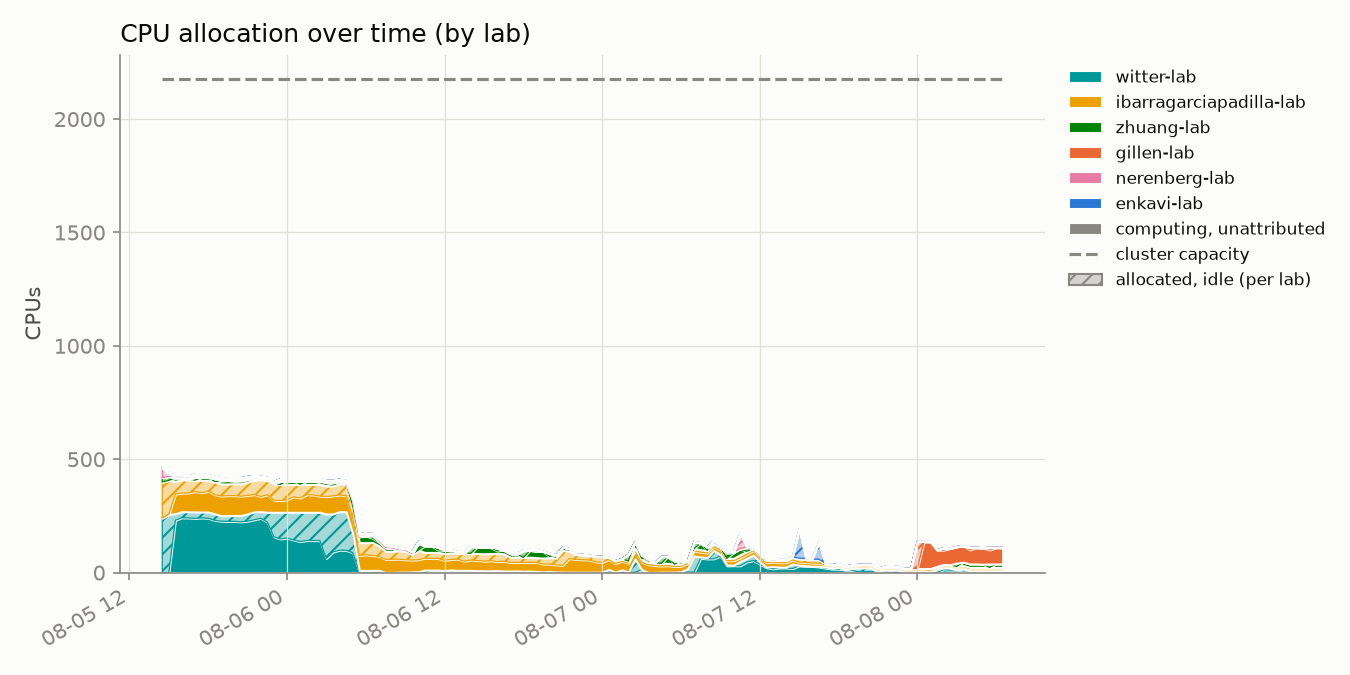
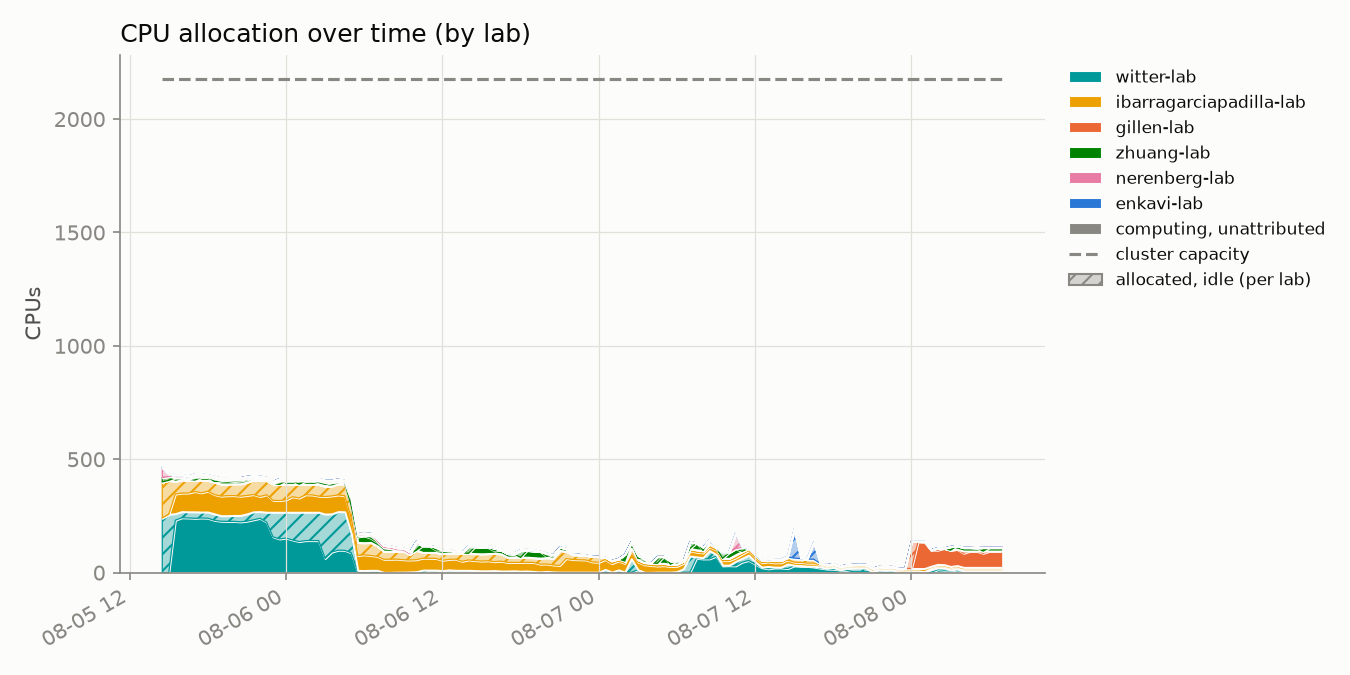
update 2026-08-08T07:00:01-07:00

diff --git a/README.md b/README.md
@@ -2,8 +2,8 @@
 
 Automated GPU/CPU/queue utilization tracker for `hopper.cluster`, updated every 30 minutes by cron. Usernames are anonymized to a stable per-account pseudonym; lab names are real.
 
-Last updated: 2026-08-08T06:30:13-07:00
-Samples: 129 queue snapshots, 129 GPU snapshots
+Last updated: 2026-08-08T07:00:13-07:00
+Samples: 130 queue snapshots, 130 GPU snapshots
 
 ## Resources
 
@@ -17,24 +17,24 @@ Samples: 129 queue snapshots, 129 GPU snapshots
 ## Headline
 
 - **45.6%** of the cluster's 60 GPUs allocated, averaged across all samples
-- **47.0%** average `nvidia-smi` utilization *when* a GPU is allocated to a job
-- **87.8%** average cgroup CPU utilization *when* a CPU is allocated to a job
+- **46.9%** average `nvidia-smi` utilization *when* a GPU is allocated to a job
+- **87.9%** average cgroup CPU utilization *when* a CPU is allocated to a job
 
 ## Per lab / per user
 
 <table>
 <tr><th>Lab</th><th>User</th><th align='right'>GPU-hours allocated</th><th align='right'>CPU-hours allocated</th><th align='right'>GPU utilization</th></tr>
-<tr style='background-color:#d8ecd8'><td>zhuang-lab</td><td>user-0db9ced0</td><td align='right'>781.5</td><td align='right'>781.5</td><td align='right'>46%</td></tr>
+<tr style='background-color:#d8ecd8'><td>zhuang-lab</td><td>user-0db9ced0</td><td align='right'>789.0</td><td align='right'>789.0</td><td align='right'>46%</td></tr>
 <tr style='background-color:#d8efef'><td>witter-lab</td><td>user-d58f5a15</td><td align='right'>467.5</td><td align='right'>3740.0</td><td align='right'>9%</td></tr>
-<tr style='background-color:#d8efef'><td>witter-lab</td><td>user-554c620c</td><td align='right'>456.0</td><td align='right'>973.5</td><td align='right'>66%</td></tr>
+<tr style='background-color:#d8efef'><td>witter-lab</td><td>user-554c620c</td><td align='right'>460.0</td><td align='right'>977.5</td><td align='right'>67%</td></tr>
 <tr style='background-color:#fbebf1'><td>nerenberg-lab</td><td>user-6bb5f332</td><td align='right'>40.0</td><td align='right'>200.0</td><td align='right'>71%</td></tr>
-<tr style='background-color:#fbebf1'><td>nerenberg-lab</td><td>user-fedb5feb</td><td align='right'>20.5</td><td align='right'>52.0</td><td align='right'>67%</td></tr>
-<tr style='background-color:#fce8e0'><td>gillen-lab</td><td>user-b89a87ef</td><td align='right'>0.0</td><td align='right'>576.0</td><td align='right'>—</td></tr>
-<tr style='background-color:#fcf0d8'><td>ibarragarciapadilla-lab</td><td>user-dad71a72</td><td align='right'>0.0</td><td align='right'>6.0</td><td align='right'>—</td></tr>
-<tr style='background-color:#fcf0d8'><td>ibarragarciapadilla-lab</td><td>user-3cfc41a3</td><td align='right'>0.0</td><td align='right'>3892.5</td><td align='right'>—</td></tr>
-<tr style='background-color:#fbebf1'><td>nerenberg-lab</td><td>user-b12dc074</td><td align='right'>0.0</td><td align='right'>16.0</td><td align='right'>—</td></tr>
+<tr style='background-color:#fbebf1'><td>nerenberg-lab</td><td>user-fedb5feb</td><td align='right'>21.0</td><td align='right'>52.5</td><td align='right'>67%</td></tr>
 <tr style='background-color:#fcf0d8'><td>ibarragarciapadilla-lab</td><td>user-eec7ffae</td><td align='right'>0.0</td><td align='right'>426.5</td><td align='right'>—</td></tr>
+<tr style='background-color:#fcf0d8'><td>ibarragarciapadilla-lab</td><td>user-3cfc41a3</td><td align='right'>0.0</td><td align='right'>3900.0</td><td align='right'>—</td></tr>
 <tr style='background-color:#dfeaf8'><td>enkavi-lab</td><td>user-c21bdaa4</td><td align='right'>0.0</td><td align='right'>171.0</td><td align='right'>—</td></tr>
+<tr style='background-color:#fbebf1'><td>nerenberg-lab</td><td>user-b12dc074</td><td align='right'>0.0</td><td align='right'>16.0</td><td align='right'>—</td></tr>
+<tr style='background-color:#fce8e0'><td>gillen-lab</td><td>user-b89a87ef</td><td align='right'>0.0</td><td align='right'>612.0</td><td align='right'>—</td></tr>
+<tr style='background-color:#fcf0d8'><td>ibarragarciapadilla-lab</td><td>user-dad71a72</td><td align='right'>0.0</td><td align='right'>6.0</td><td align='right'>—</td></tr>
 </table>
 
 ## Usage over time
@@ -45,7 +45,7 @@ Samples: 129 queue snapshots, 129 GPU snapshots
 
 Solid = utilized by lab, hatched = allocated but idle, gray = usage not traceable to a lab, dashed line = cluster capacity.
 
-Attribution combines `nvidia-smi`'s process listing with Slurm's GPU-to-job binding record; the latter caught **2580** readings the former missed.
+Attribution combines `nvidia-smi`'s process listing with Slurm's GPU-to-job binding record; the latter caught **2591** readings the former missed.
 
 ## Queue
 
@@ -57,13 +57,13 @@ Attribution combines `nvidia-smi`'s process listing with Slurm's GPU-to-job bind
 
 ![CPU usage vs GPU usage, decayed](assets/cpu_gpu_usage.png)
 
-One point per user per snapshot (n=622), usage decayed on Slurm's ~7-day fairshare half-life.
+One point per user per snapshot (n=627), usage decayed on Slurm's ~7-day fairshare half-life.
 
 **GPU usage doesn't count toward priority on this cluster** (`TRESBillingWeights`/`PriorityWeightTRES` unset) - watch the **upper-left**: low CPU usage (high priority) with high GPU usage.
 
 ## Recommendations
 
-1. **Weight GPU usage in fairshare.** `TRESBillingWeights` and `PriorityWeightTRES` are both unset right now, so Slurm's fairshare score only sees CPU-seconds - a job holding 4 idle L40S GPUs costs nothing in priority as long as it isn't also holding CPUs. That's the exact failure mode the scatter above is built to catch (upper-left: low CPU usage, high GPU usage). Fix: `scontrol update partition=main TRESBillingWeights=CPU=1.0,GRES/gpu=<weight>` (or set `PriorityWeightTRES` cluster-wide), then `scontrol reconfigure` - a full `slurmctld` restart also works but drops in-flight priority state. A reasonable starting point for `<weight>` is the CPUs-per-GPU ratio on a GPU node (128 CPUs / 4 GPUs = 32), so one GPU costs as much fairshare as the CPU share it displaces; tune from there against next week's headline numbers (45.6% allocated, 47.0% utilized when allocated, as of this snapshot). The weight value itself is a policy call - loop in whoever owns cluster allocation policy before changing it.
+1. **Weight GPU usage in fairshare.** `TRESBillingWeights` and `PriorityWeightTRES` are both unset right now, so Slurm's fairshare score only sees CPU-seconds - a job holding 4 idle L40S GPUs costs nothing in priority as long as it isn't also holding CPUs. That's the exact failure mode the scatter above is built to catch (upper-left: low CPU usage, high GPU usage). Fix: `scontrol update partition=main TRESBillingWeights=CPU=1.0,GRES/gpu=<weight>` (or set `PriorityWeightTRES` cluster-wide), then `scontrol reconfigure` - a full `slurmctld` restart also works but drops in-flight priority state. A reasonable starting point for `<weight>` is the CPUs-per-GPU ratio on a GPU node (128 CPUs / 4 GPUs = 32), so one GPU costs as much fairshare as the CPU share it displaces; tune from there against next week's headline numbers (45.6% allocated, 46.9% utilized when allocated, as of this snapshot). The weight value itself is a policy call - loop in whoever owns cluster allocation policy before changing it.
 
 2. **Escalate on sustained low utilization** (see table and scatter above). Right now the clearest candidate is `user-d58f5a15` in `witter-lab`: 467.5 GPU-hours allocated at 9% average utilization, i.e. roughly 424 GPU-hours that sat idle instead of going to someone in the queue. Turning that into an automated escalation needs two decisions made up front: a utilization threshold (something like under 20% mean utilization over at least 50 allocated GPU-hours is a defensible starting bar - loose enough to skip short debugging runs, tight enough to catch parked allocations) and a grace period (how many consecutive low-utilization snapshots before it counts as "sustained" rather than a momentary lull between batches). Once those are set, the mechanism can be either soft (a bot that reads `data/gpu_samples.jsonl` and reminds the user/lab by email or Slack) or hard (a Slurm-side QOS penalty, e.g. `sacctmgr modify qos <qos> set Priority-=<n>`, applied after N consecutive offending snapshots). Neither exists yet - today the table and scatter above are a read-only signal, not an enforced policy.
 
